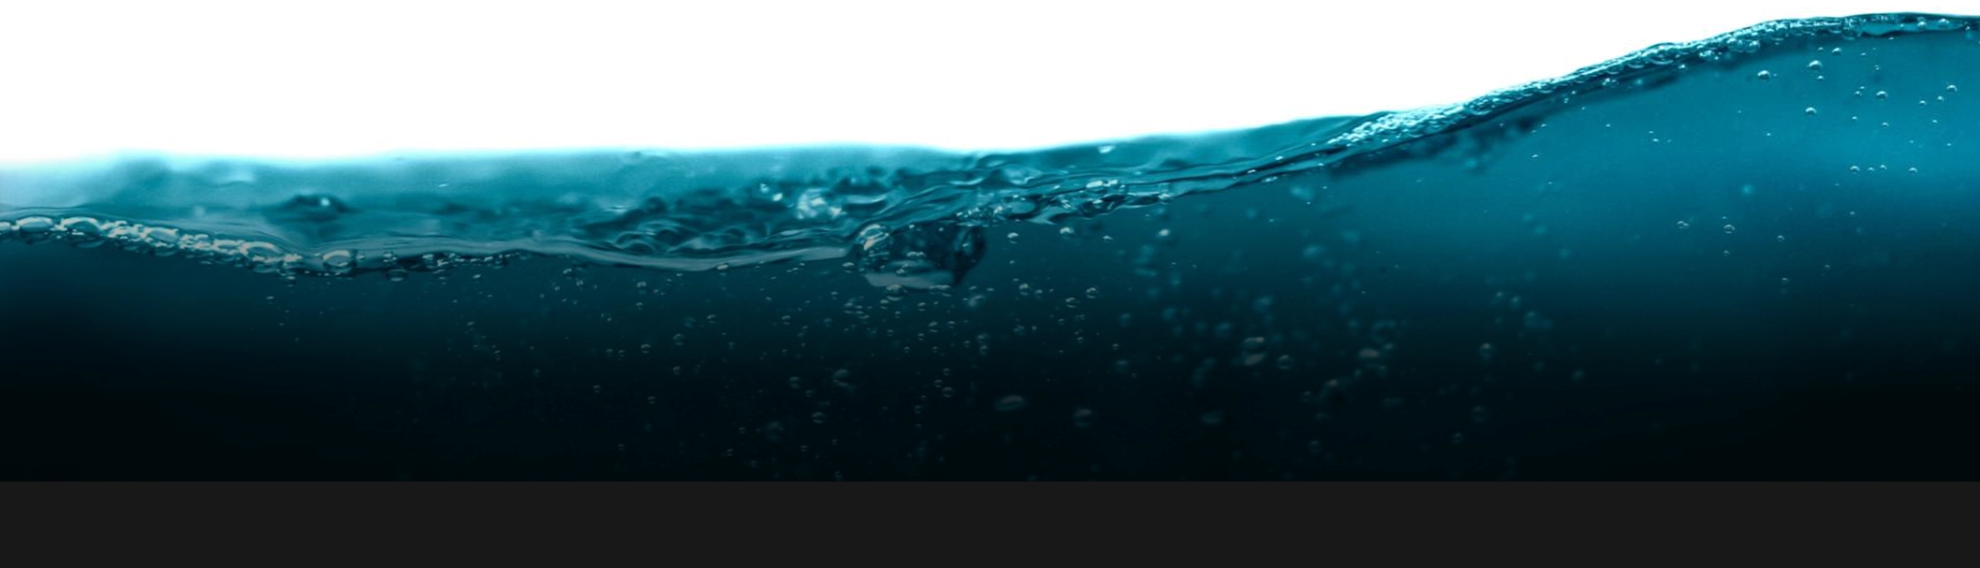
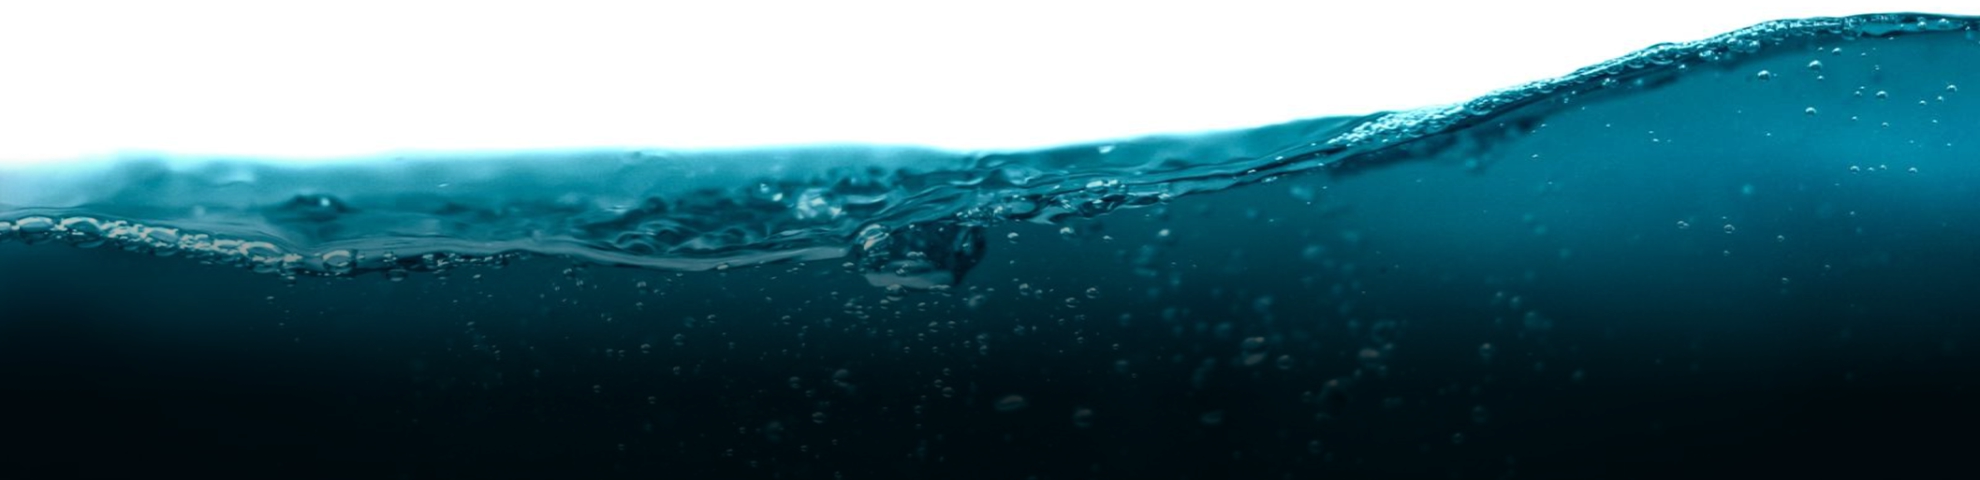
Update footer background to FOOTER_onda_002.webp (1980x480)

diff --git a/preview/index.html b/preview/index.html
@@ -47,7 +47,7 @@ function(e){  });
                 "storage": {"type": "cookie", "useSiteId": false}
             };
             </script><link href="/cloudcode---skill-wordpress-pro---artide.it/assets/artide-overrides.css" rel="stylesheet"/></head>
-<body class="c-s-n ac-s b-btn-r l-d-none line-solid wt-home wnd-fe b-e-ds img-d-r ac-n b-btn-dbb lbox-l l-default img-h-z hb-on img-t-o b-btn-bw-2 l b-btn-s-l ac-i is-home" data-base="/cloudcode---skill-wordpress-pro---artide.it"><div id="preview-banner" style="position:fixed;bottom:16px;right:16px;z-index:99999;background:#fff3cd;color:#7a5a00;padding:8px 14px;border-radius:10px;box-shadow:0 6px 20px rgba(0,0,0,0.14);font:600 12px/1.35 system-ui,-apple-system,sans-serif;border:1px solid #f3e2a0;max-width:420px">
+<body class="l b-btn-r img-t-o c-s-n line-solid b-btn-bw-2 b-btn-dbb ac-s ac-i hb-on b-e-ds lbox-l l-d-none ac-n b-btn-s-l wnd-fe is-home l-default img-d-r wt-home img-h-z" data-base="/cloudcode---skill-wordpress-pro---artide.it"><div id="preview-banner" style="position:fixed;bottom:16px;right:16px;z-index:99999;background:#fff3cd;color:#7a5a00;padding:8px 14px;border-radius:10px;box-shadow:0 6px 20px rgba(0,0,0,0.14);font:600 12px/1.35 system-ui,-apple-system,sans-serif;border:1px solid #f3e2a0;max-width:420px">
 <span style="opacity:0.85">Anteprima SEO</span>
 <code style="background:rgba(0,0,0,0.05);padding:1px 6px;border-radius:4px;margin:0 4px">/</code>
 <span style="opacity:0.6">· kw:  </span> <b>casa dell'acqua</b>
